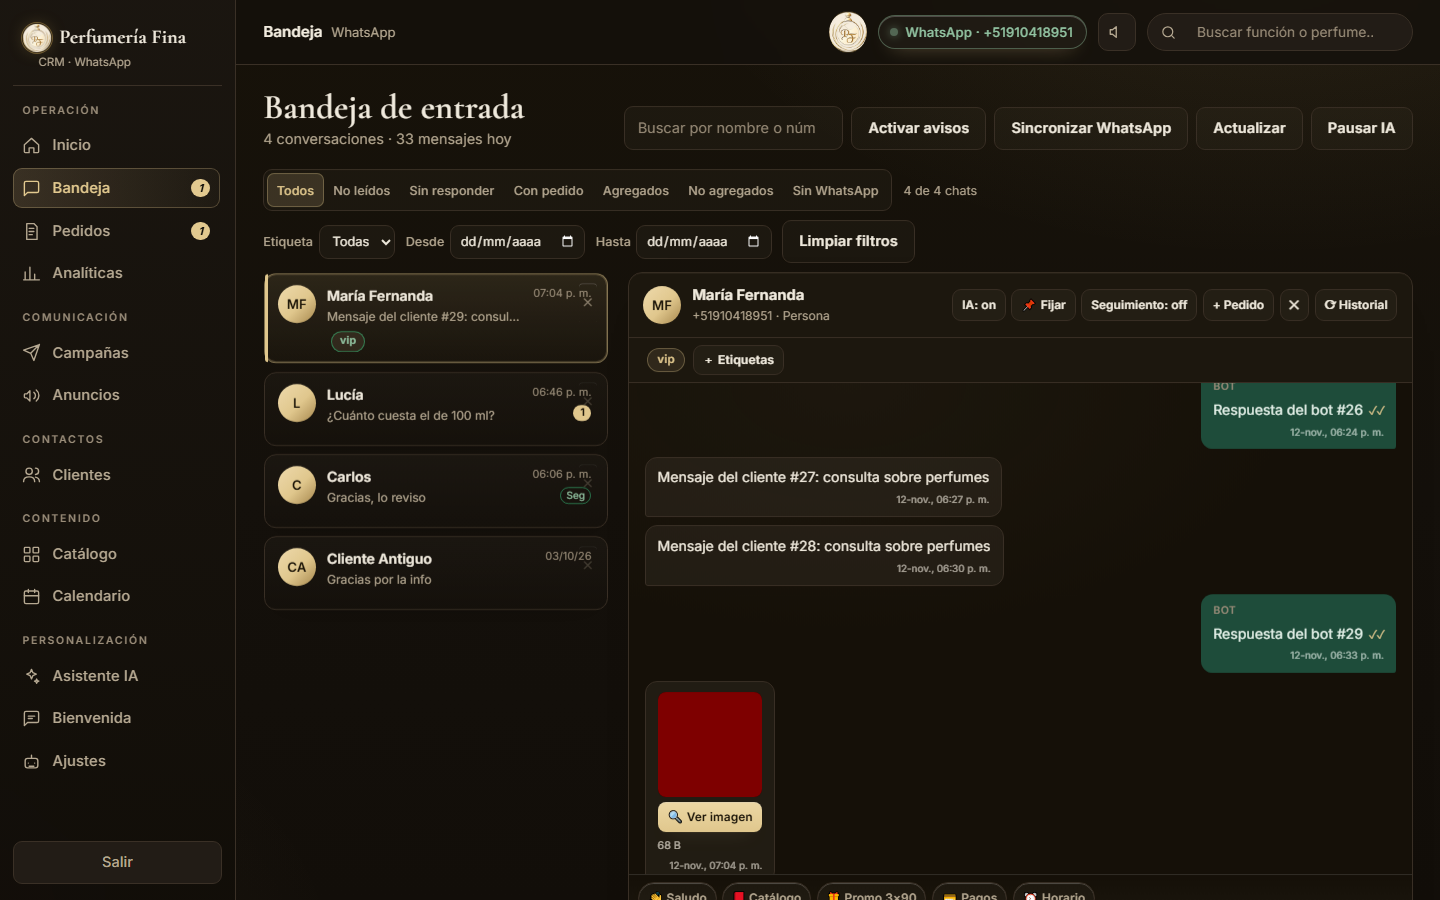
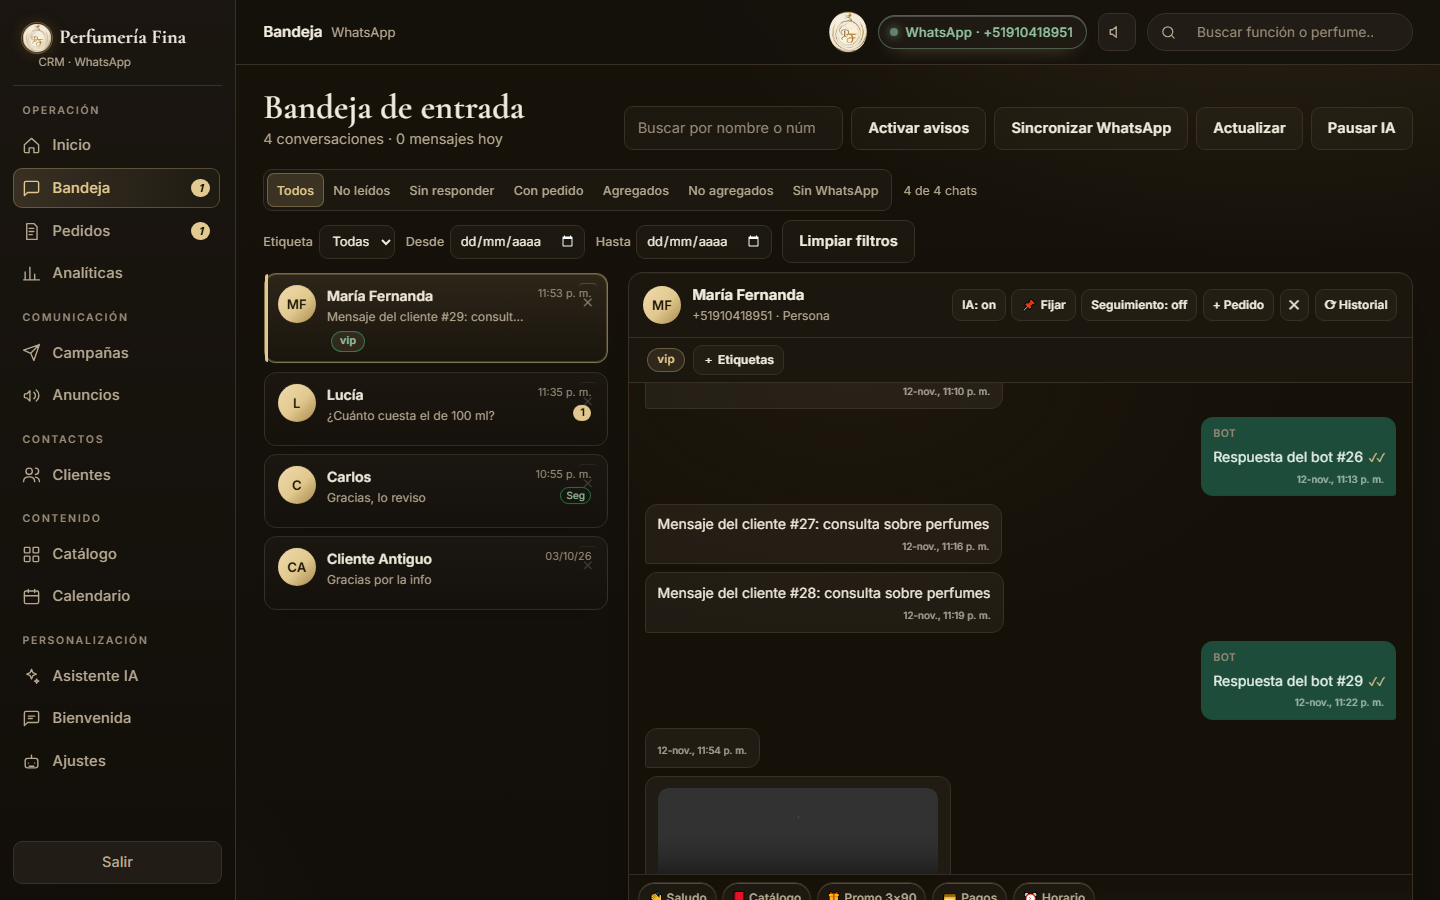
Horario 24/7 por defecto y multimedia automatica (imagen/video/sticker sin botones)

diff --git a/assets/app.js b/assets/app.js
@@ -1498,9 +1498,6 @@ function tipoMediaDeMarcador(texto){
   if(/^\[(gif|archivo)\]/.test(t))return 'archivo';
   return '';
 }
-function etiquetaMedia(tipo){
-  return ({imagen:'🔍 Ver imagen',sticker:'🔍 Ver sticker',video:'▶ Ver video',audio:'🔊 Escuchar audio',documento:'📄 Abrir documento',archivo:'⬇ Abrir archivo'})[tipo]||'Ver archivo';
-}
 function formatoBytes(n){
   const b=Number(n)||0;
   if(!b)return '';
@@ -1514,12 +1511,52 @@ function htmlMediaMensaje(m,tel){
   if(!tipo)return '';
   const wa=String(m.waId||'');
   if(!wa)return '';
+  // La miniatura se muestra YA (sin botón). El archivo completo se trae solo
+  // cuando el mensaje entra en pantalla (ver observarMedia/cargarMediaEnHilo).
   const thumb=media&&media.thumb?`<img class="msg-thumb" src="${esc(media.thumb)}" alt="" loading="lazy">`:'';
   const meta=[formatoBytes(media&&media.bytes)];
   if(media&&media.duracion)meta.push(Math.round(media.duracion)+' s');
-  const nombre=media&&media.nombre?esc(media.nombre):'';
   const info=meta.filter(Boolean).length?`<small class="msg-media-meta">${meta.filter(Boolean).join(' · ')}</small>`:'';
-  return `<div class="msg-media" data-media-tel="${esc(tel)}" data-media-wa="${esc(wa)}" data-media-tipo="${esc(tipo)}">${thumb}<button class="msg-media-btn" type="button">${etiquetaMedia(tipo)}${nombre?' · '+nombre:''}</button>${info}</div>`;
+  const pista=thumb?'':`<span class="msg-media-hint">${tipo==='video'?'Cargando video…':tipo==='audio'?'Cargando audio…':'Cargando archivo…'}</span>`;
+  return `<div class="msg-media" data-media-tel="${esc(tel)}" data-media-wa="${esc(wa)}" data-media-tipo="${esc(tipo)}">${thumb}${pista}${info}</div>`;
+}
+/* Auto-visualización: en cuanto la multimedia entra en el viewport se descarga
+   y se muestra directamente (imagen/video/sticker/audio), sin pulsar botones. */
+let obsMedia=null;
+const colaMedia=[];
+let cargandoMedia=0;
+function encolarMedia(cont){
+  if(!cont||cont.dataset.mediaCargada==='1'||cont.dataset.mediaEnCola==='1')return;
+  cont.dataset.mediaEnCola='1';
+  colaMedia.push(cont);
+  bombearMedia();
+}
+function bombearMedia(){
+  while(cargandoMedia<2&&colaMedia.length){
+    const c=colaMedia.shift();
+    cargandoMedia++;
+    cargarMediaEnHilo(c).finally(()=>{cargandoMedia--;bombearMedia();});
+  }
+}
+function observarMedia(cont){
+  if(!cont)return;
+  cont.dataset.mediaObservada='1';
+  if(typeof IntersectionObserver==='undefined'){encolarMedia(cont);return;}
+  if(!obsMedia){
+    obsMedia=new IntersectionObserver(es=>{
+      for(const e of es){
+        if(!e.isIntersecting)continue;
+        obsMedia.unobserve(e.target);
+        encolarMedia(e.target);
+      }
+    },{root:null,rootMargin:'300px 0px'});
+  }
+  obsMedia.observe(cont);
+}
+function observarMediasDe(nodo){
+  if(!nodo)return;
+  if(nodo.matches&&nodo.matches('.msg-media[data-media-wa]'))observarMedia(nodo);
+  nodo.querySelectorAll&&nodo.querySelectorAll('.msg-media[data-media-wa]').forEach(observarMedia);
 }
 function nodoMensaje(m){
   const out=m.direccion!=='entrante';
@@ -1533,16 +1570,17 @@ function nodoMensaje(m){
   // Si el texto es solo el marcador de la multimedia, no se muestra el "[imagen]".
   const texto=media&&tipoMediaDeMarcador(m.texto)?'':waHTML(m.texto);
   el.innerHTML=`${who?`<span class="who">${who}</span>`:''}${media}${texto}${marca}<time>${esc(new Date(m.en).toLocaleString('es-PE',{day:'2-digit',month:'short',hour:'2-digit',minute:'2-digit'}))}</time>`;
+  observarMediasDe(el);
   return el;
 }
-/** Descarga (bajo demanda) y muestra una multimedia del hilo. */
+/** Descarga y muestra una multimedia del hilo (automático al hacerse visible). */
 async function cargarMediaEnHilo(cont){
   const tel=cont.dataset.mediaTel,waId=cont.dataset.mediaWa,tipo=cont.dataset.mediaTipo||'';
   if(!tel||!waId)return;
-  const btn=cont.querySelector('.msg-media-btn');
-  const antes=btn?btn.textContent:'';
+  if(cont.dataset.mediaCargada==='1')return;
+  const thumbEl=cont.querySelector('img.msg-thumb');
+  const thumbSrc=thumbEl?thumbEl.src:'';
   cont.classList.add('loading');
-  if(btn){btn.disabled=true;btn.textContent='Cargando…';}
   try{
     const r=await botFetch('/api/conversaciones/'+encodeURIComponent(tel)+'/media',{method:'POST',headers:{'Content-Type':'application/json'},body:JSON.stringify({waId}),timeoutMs:210000});
     if(!r||!r.archivo)throw new Error((r&&r.error)||'sin archivo');
@@ -1551,21 +1589,27 @@ async function cargarMediaEnHilo(cont){
     const mim=String(r.mimetype||'');
     const tipoFinal=r.tipo||tipo;
     let nodo;
-    if(/^video\//.test(mim)||tipoFinal==='video'){nodo=document.createElement('video');nodo.className='msg-video';nodo.controls=true;nodo.playsInline=true;nodo.preload='metadata';nodo.src=url;}
+    if(/^video\//.test(mim)||tipoFinal==='video'){
+      nodo=document.createElement('video');nodo.className='msg-video';nodo.controls=true;nodo.playsInline=true;nodo.preload='metadata';nodo.src=url;
+      if(thumbSrc)nodo.poster=thumbSrc;
+    }
     else if(/^audio\//.test(mim)||tipoFinal==='audio'){nodo=document.createElement('audio');nodo.className='msg-audio';nodo.controls=true;nodo.src=url;}
     else if(/^image\//.test(mim)||['imagen','sticker'].includes(tipoFinal)){nodo=document.createElement('img');nodo.className='msg-img';nodo.src=url;nodo.alt='';}
-    else{nodo=document.createElement('a');nodo.className='msg-doc';nodo.href=url;nodo.download=r.nombre||r.archivo;nodo.target='_blank';nodo.rel='noopener';nodo.textContent='⬇ Descargar '+(r.nombre||'archivo');}
+    else{nodo=document.createElement('a');nodo.className='msg-doc';nodo.href=url;nodo.download=r.nombre||r.archivo;nodo.target='_blank';nodo.rel='noopener';nodo.textContent='⬇ '+(r.nombre||'Abrir archivo');}
     cont.innerHTML='';cont.appendChild(nodo);
+    cont.dataset.mediaCargada='1';
+    delete cont.dataset.mediaEnCola;
     cont.classList.remove('loading');
   }catch(err){
     cont.classList.remove('loading');
-    if(btn){btn.disabled=false;btn.textContent=antes||'Reintentar';}
-    toast('No disponible: '+err.message,'error');
+    delete cont.dataset.mediaEnCola;
+    cont.dataset.mediaError='1';
+    cont.innerHTML=`<span class="msg-media-hint err">No disponible (archivo expirado)</span>`;
   }
 }
 $('#in-msgs')?.addEventListener('click',e=>{
   const cont=e.target.closest('[data-media-wa]');
-  if(cont)cargarMediaEnHilo(cont);
+  if(cont&&cont.dataset.mediaError==='1'){delete cont.dataset.mediaError;cargarMediaEnHilo(cont);}
 });
 function pintarHilo(msgs){
   const c=$('#in-msgs');if(!c)return;

diff --git a/bot/src/ajustes.js b/bot/src/ajustes.js
@@ -33,8 +33,13 @@ const base = () => ({
   intervaloEntreChats: 5,
   // Segundos entre cada mensaje de un envío masivo (campaña/anuncio).
   intervaloMasivo: 30,
-  horaInicio: Math.min(23, Math.max(0, num(config.horaInicio, 9))),
-  horaFin: Math.min(24, Math.max(1, num(config.horaFin, 20))),
+  // Horario de atención (Lima). Por defecto SIEMPRE activo (0-24): el panel es
+  // la fuente de verdad y el dueño puede restringirlo cuando quiera. Las
+  // variables HORA_INICIO/HORA_FIN del .env quedan como legado (no pisan el 24/7).
+  horaInicio: 0,
+  horaFin: 24,
+  // Marca de migración: los ajustes viejos con el horario fijo 9-20 se pasan a 24/7.
+  horarioSiempre: false,
   // Mensaje de bienvenida (primer mensaje de cada chat). Admite {saludo} y {nombre}.
   bienvenidaTexto: '{saludo}, {nombre}. ✨ Bienvenido(a) a *Perfumería Fina Perú*, aromas que fascinan.\n\nNuestras fragancias son *equivalentes de alta calidad* con *50% de esencia*, inspiradas en las casas perfumeras más reconocidas: buena fijación y en envase propio.\n\n💳 En Lima aceptamos todos los medios de pago según tu preferencia: efectivo al recibir, Yape, Plin o transferencia.\n🚚 Envíos a Lima y provincia.\n\n📕 Te envío nuestro catálogo, un video y una foto para que conozcas las fragancias.\n🌐 Web: https://www.perfumeriafinaperu.com',
   // Secuencia de bienvenida: catálogo PDF, video y foto (activados por defecto).
@@ -62,7 +67,19 @@ const base = () => ({
 function cargar() {
   try {
     const j = JSON.parse(fs.readFileSync(archivo, 'utf8'));
-    return normalizar({ ...base(), ...j });
+    const a = normalizar({ ...base(), ...j });
+    // Migración puntual: el valor por defecto histórico era 9-20. Si el dueño
+    // nunca lo tocó (marca ausente) se pasa a 24/7 para que el bot responda
+    // siempre. Si ya lo personalizó, se respeta.
+    if (a.horarioSiempre !== true && Number(j.horaInicio) === 9 && Number(j.horaFin) === 20) {
+      a.horaInicio = 0;
+      a.horaFin = 24;
+    }
+    if (a.horarioSiempre !== true) {
+      a.horarioSiempre = true;
+      escribirAtomico(archivo, JSON.stringify(a, null, 2));
+    }
+    return a;
   } catch {
     return base();
   }
@@ -78,8 +95,9 @@ function normalizar(a = {}) {
     intervaloMax,
     intervaloEntreChats: clamp(a.intervaloEntreChats, 0, 3600),
     intervaloMasivo: clamp(a.intervaloMasivo, 1, 3600),
-    horaInicio: Math.min(23, Math.max(0, Math.round(num(a.horaInicio, 9)))),
-    horaFin: Math.min(24, Math.max(1, Math.round(num(a.horaFin, 20)))),
+    horaInicio: Math.min(23, Math.max(0, Math.round(num(a.horaInicio, 0)))),
+    horaFin: Math.min(24, Math.max(1, Math.round(num(a.horaFin, 24)))),
+    horarioSiempre: a.horarioSiempre === true,
     bienvenidaTexto: String(a.bienvenidaTexto || '').slice(0, 600),
     enviarCatalogo: a.enviarCatalogo !== false,
     enviarVideo: a.enviarVideo !== false,
@@ -111,6 +129,12 @@ function nombreSeguro(v) {
 
 export function estadoAjustes() {
   return { ...estado };
+}
+
+/** Recarga los ajustes desde disco (pruebas o cambios externos al proceso). */
+export function recargarAjustes() {
+  estado = cargar();
+  return aplicarAjustes();
 }
 
 /** Aplica los ajustes al objeto `config` en caliente (sin reiniciar el bot). */

diff --git a/index.html b/index.html
@@ -491,8 +491,8 @@
           <div><label for="aj-max">Intervalo entre mensajes — máximo (seg)</label><input id="aj-max" type="number" min="1" step="1" placeholder="40"></div>
           <div><label for="aj-chats">Intervalo entre chats (seg)</label><input id="aj-chats" type="number" min="0" step="1" placeholder="5"><small class="muted" style="font-size:.72rem">Espera antes de responder a otra conversación.</small></div>
           <div><label for="aj-masivo">Intervalo envío masivo (seg)</label><input id="aj-masivo" type="number" min="1" step="1" placeholder="30"><small class="muted" style="font-size:.72rem">Entre cada mensaje de campaña/anuncio.</small></div>
-          <div><label for="aj-hora-ini">Hora de inicio (Lima)</label><input id="aj-hora-ini" type="number" min="0" max="23" step="1" placeholder="9"></div>
-          <div><label for="aj-hora-fin">Hora de fin (Lima)</label><input id="aj-hora-fin" type="number" min="1" max="24" step="1" placeholder="20"></div>
+          <div><label for="aj-hora-ini">Hora de inicio (Lima)</label><input id="aj-hora-ini" type="number" min="0" max="23" step="1" placeholder="0"></div>
+          <div><label for="aj-hora-fin">Hora de fin (Lima)</label><input id="aj-hora-fin" type="number" min="1" max="24" step="1" placeholder="24"></div>
         </div>
         <p class="muted" style="font-size:.78rem;margin:.2rem 0 .4rem">Para que el bot trabaje <b>24/7</b> deja <b>inicio 0</b> y <b>fin 24</b>.</p>
         <div class="acts" style="justify-content:flex-start"><button class="ghost" id="aj-247" type="button">Poner 24/7</button></div>

diff --git a/bot/src/config.js b/bot/src/config.js
@@ -42,8 +42,10 @@ export const config = {
   cooldownSegundos: Math.max(0, num(process.env.COOLDOWN_SEGUNDOS, 10)),
   // 0 = sin límite diario (solo se respeta el intervalo entre mensajes).
   maxPorDia: Math.max(0, num(process.env.MAX_POR_DIA, 0)),
-  horaInicio: Math.min(23, Math.max(0, num(process.env.HORA_INICIO, 9))),
-  horaFin: Math.min(24, Math.max(1, num(process.env.HORA_FIN, 20))),
+  // Horario de atención. Por defecto 24/7: el dueño muchas veces deja el bot
+  // siempre activo; si quiere restringirlo, lo cambia en Ajustes.
+  horaInicio: Math.min(23, Math.max(0, num(process.env.HORA_INICIO, 0))),
+  horaFin: Math.min(24, Math.max(1, num(process.env.HORA_FIN, 24))),
   lunesASabado: bool(process.env.LUNES_A_SABADO, true),
   zona: process.env.ZONA_HORARIA || 'America/Lima',
 

diff --git a/assets/app.css b/assets/app.css
@@ -1099,3 +1099,10 @@ dialog::backdrop{background:rgba(10,8,6,.72);backdrop-filter:blur(7px)}
   .msg-video{max-width:min(80vw,280px)}
   .msg-media-btn{min-height:40px}
 }
+
+/* Auto-visualización: el archivo completo aparece solo (sin botón). */
+.msg-media-hint{font-size:.74rem;opacity:.72}
+.msg-media-hint.err{color:#f87171;opacity:.9}
+.msg-media.loading .msg-thumb{opacity:.55;filter:blur(1px)}
+.msg-img{max-width:min(72vw,320px)}
+@media(max-width:760px){.msg-img{max-width:min(80vw,280px)}}

diff --git a/docs/RUNBOOK-BOT.md b/docs/RUNBOOK-BOT.md
@@ -170,3 +170,16 @@ limpias `no existe` en momentos distintos.
   ahora dice “suele tardar menos de 2 minutos”.
 - Variables: `HISTORIALES_MAX_CHATS` (60), `HISTORIALES_LIMITE` (80),
   `HISTORIALES_MAX_MS` (180000); `SYNC_MIN_MS`/`SYNC_MAX_MS` para la sync periódica.
+
+## 10 · Horario 24/7 y multimedia automática (2026-11-12)
+
+- **Horario**: por defecto el bot atiende **24/7** (`horaInicio=0`, `horaFin=24`) porque el
+  dueño suele dejar el negocio siempre activo. El panel es la fuente de verdad; las variables
+  `HORA_INICIO`/`HORA_FIN` del `.env` quedaron como legado (no pisan el 24/7). Si un
+  `data/ajustes.json` viejo tenía exactamente 9-20 se migra una sola vez a 0-24
+  (marca `horarioSiempre:true`); un horario elegido a mano se respeta.
+- **Multimedia**: ya no hay botón "Ver imagen/video". Al abrir un chat, cada multimedia
+  visible se descarga y se muestra sola (imagen, sticker, video con controles, audio y
+  documentos) con un máximo de 2 descargas simultáneas. Las miniaturas aparecen al instante
+  y el archivo completo se reemplaza al llegar. Si el archivo expiró en WhatsApp se muestra
+  “No disponible (archivo expirado)” y un clic reintenta la descarga.

diff --git a/docs/DISENO_PANEL.md b/docs/DISENO_PANEL.md
@@ -191,3 +191,10 @@ Reglas: **nada de scroll horizontal** en 360/768/1280; todo bloque con
 - La multimedia va por la ruta autenticada del proxy (`/api/media/chats/...`): nunca
   hay URLs públicas ni base64 en el HTML (solo la miniatura data-URI, pequeña).
 - En móvil, imágenes/videos se limitan a ~72–80 vw y el botón mide 40 px.
+
+### Actualización 2026-11-12 · multimedia automática
+
+El bloque `.msg-media` ya no muestra botón: la miniatura se pinta al instante y, cuando el
+mensaje entra en el viewport, se descarga el archivo y se reemplaza por `img.msg-img`
+(imagen/sticker), `video.msg-video` con controles, `audio.msg-audio` o enlace `a.msg-doc`.
+Cola de auto-descarga con máximo 2 a la vez; errores discretos (“No disponible”).

diff --git a/docs/PROGRESO.md b/docs/PROGRESO.md
@@ -32,3 +32,7 @@
 |---|---|---|---|
 | Chats duplicados LID (identidad canónica + fusión + script) | ✅ | 5dae80b | bot 248/249 (1 CRLF) |
 | Multimedia visible en el hilo (miniatura + carga bajo demanda) | ✅ | 5dae80b | e2e 22/22 |
+
+| Extra 2 | Horario 24/7 por defecto (migración de 9-20) | ✅ | _(pendiente de hash)_ | bot 262/263 |
+| Extra 3 | Multimedia automática (sin botones; video/sticker incluidos) | ✅ | _(pendiente de hash)_ | e2e 22/22 |
+| Extra 4 | Sync ≤2 min (lectura ligera + caché de destino directo) | ✅ | `9de6a28` | bot 261/262 |
